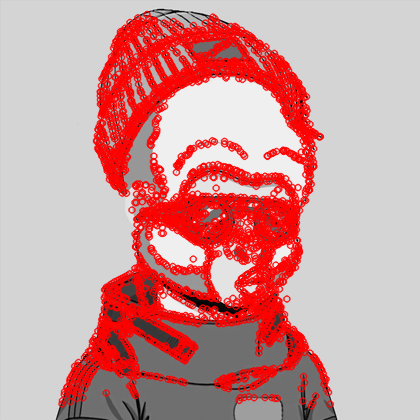
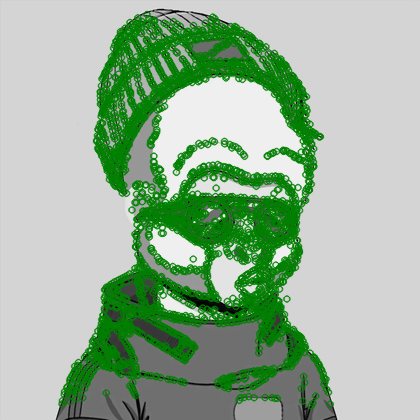
Images results

Changed region(s): [[0.1238, 0.031, 0.8048, 0.9905], [0.2476, 0.9286, 0.2786, 0.9595]]

diff --git a/ImageProcessingDiplom/OpenCvServices/BriskDetector.cs b/ImageProcessingDiplom/OpenCvServices/BriskDetector.cs
@@ -31,7 +31,7 @@ namespace ImageProcessingDiplom.OpenCvServices
             Descriptors = descriptors;
 
             Image<Bgr, byte> outputImage = new Image<Bgr, byte>(image.Size);
-            Features2DToolbox.DrawKeypoints(image, keypoints, outputImage, new Bgr(Color.Red), Features2DToolbox.KeypointDrawType.Default);
+            Features2DToolbox.DrawKeypoints(image, keypoints, outputImage, new Bgr(Color.Green), Features2DToolbox.KeypointDrawType.Default);
 
             // Save the output image to a file
             CvInvoke.Imwrite(filePath + "_result.png", outputImage.Mat);
